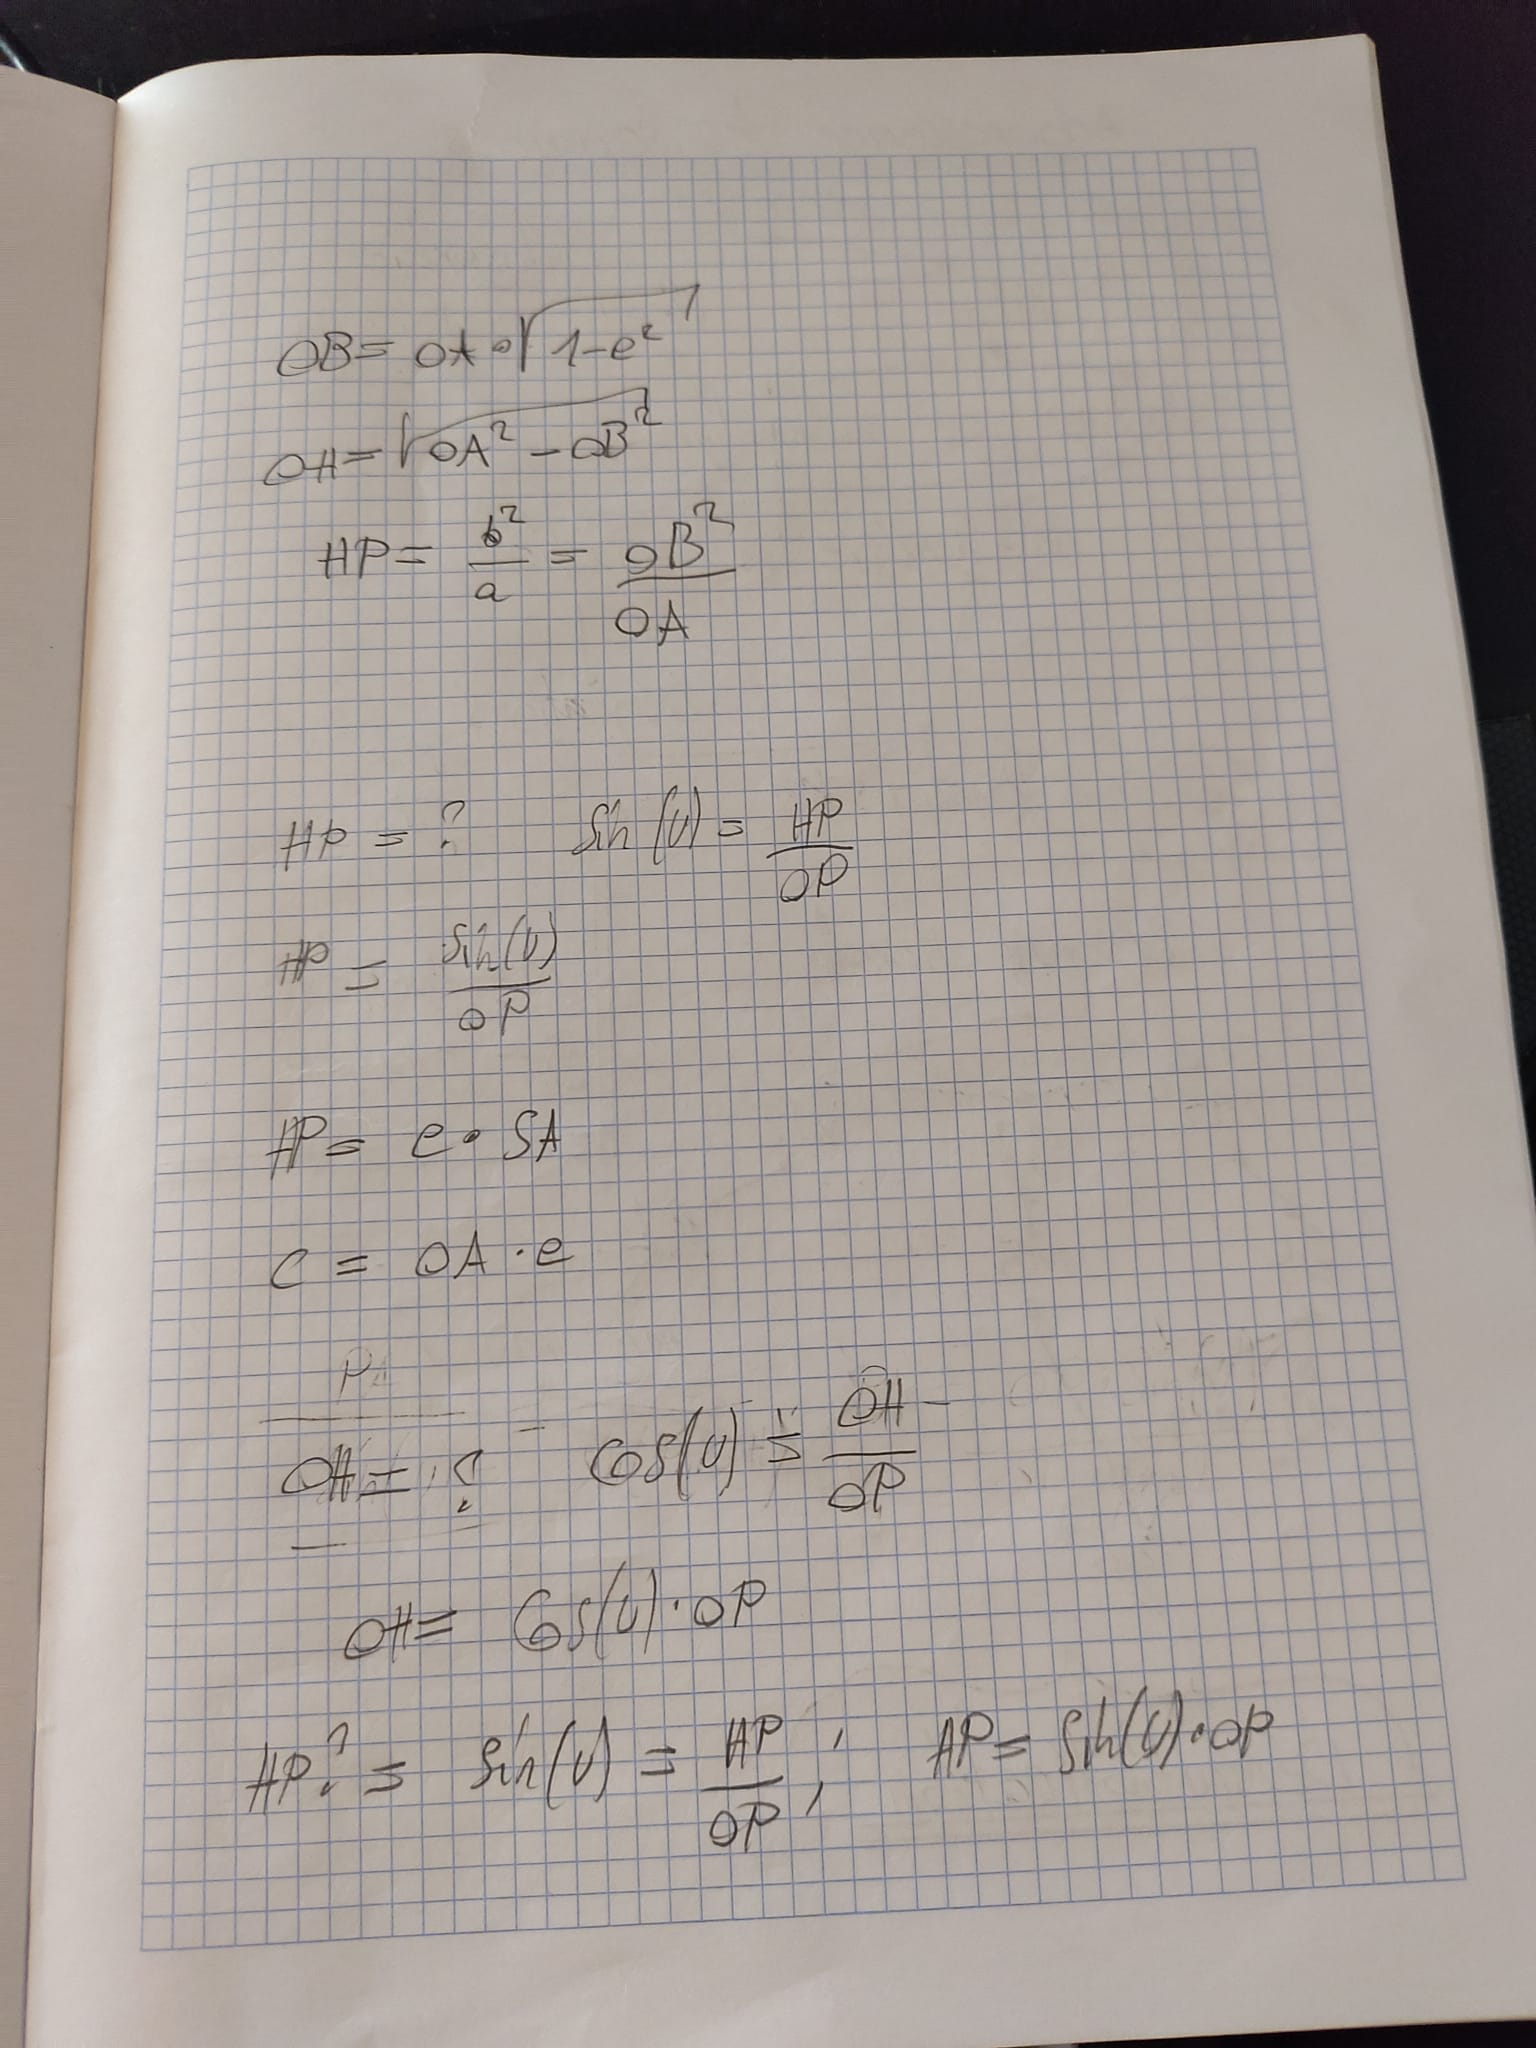
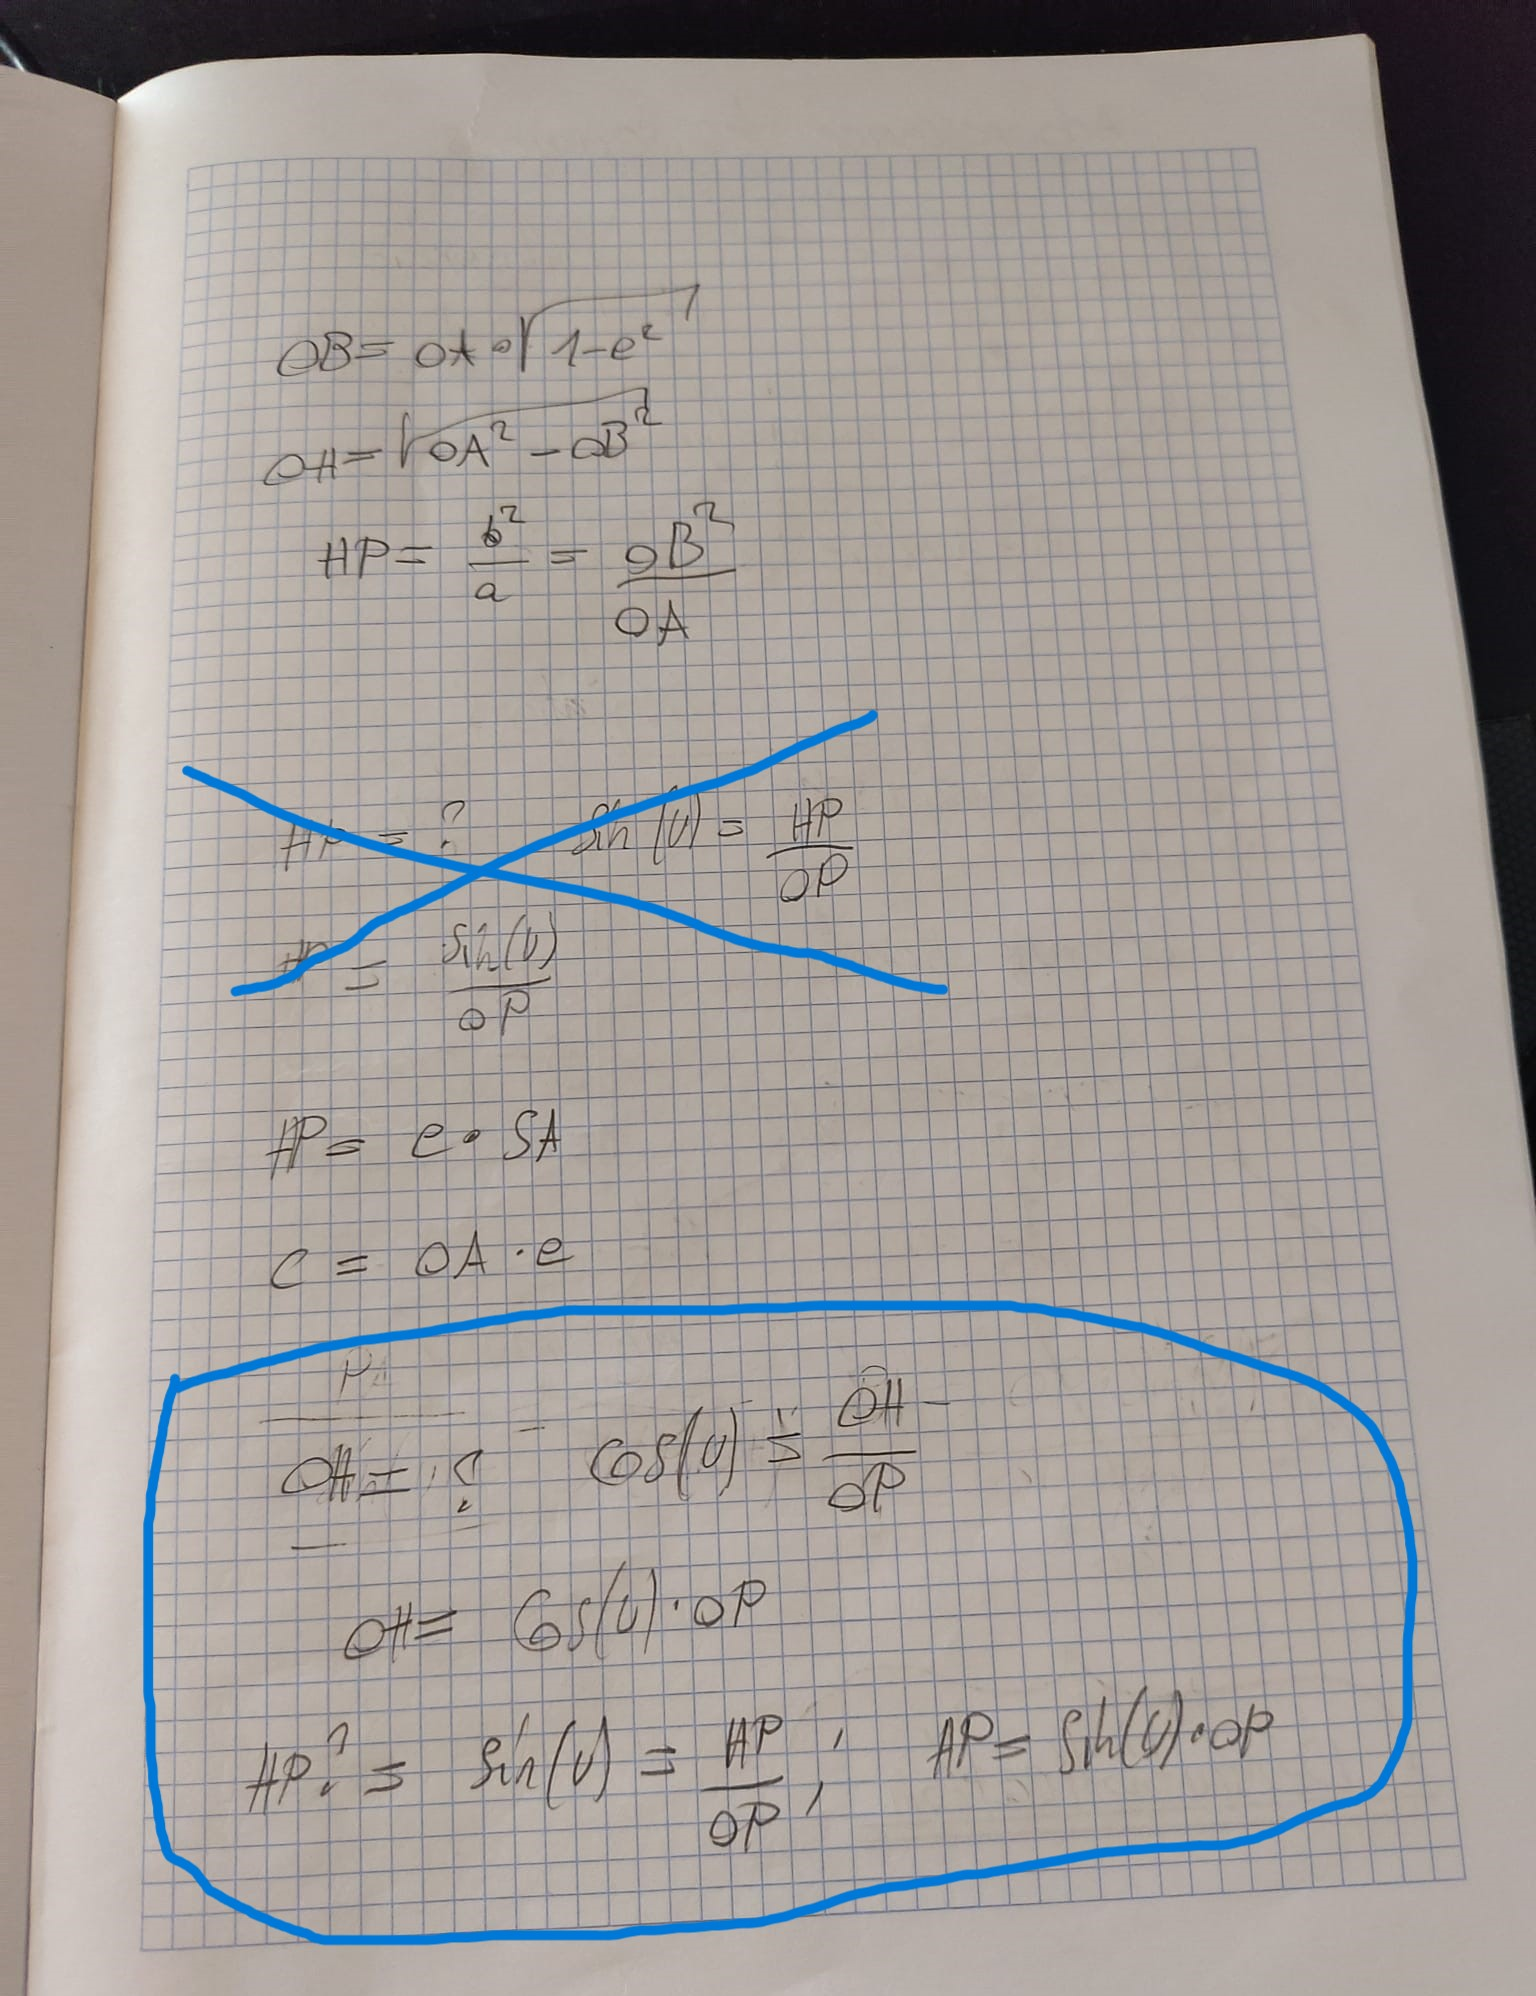
update - distances error - mistakes on sketch

diff --git a/all.js b/all.js
@@ -19,7 +19,7 @@ let ratio_e = 1
 let realTime
 let t_time = false
 let scale_Sat = 3
-let scale_astre = 4 *  1/10**6
+let scale_astre = 4 * 1/10**6
 
 const PIXEL_RANGE_DEFAULT = PIXEL * RATIO_ECRAN 
 
@@ -112,22 +112,24 @@ function satellite(){
         // tableau de bord
         document.getElementById("infobox").innerText = `
         Bienvenue sur mon tableau de bord, voici mon satellite imaginaire.
-    
-        Coordonnées du satellite (taille réelle): (${(x/d_pixel_Range/1000).toFixed(3)}km, ${(y/d_pixel_Range/1000).toFixed(3)*-1}km) 
+
         Coordonnées du satellite (taille écran): (${x.toFixed(3)}px, ${y.toFixed(3)*-1}px)
+        Distance satellite - terre (écran): ${ (Math.sqrt(x**2 + y**2).toFixed(3))} px
         Vitesse radiale: ~${(v_radiale/1000).toFixed(3)} km/s 
 
         Excentricité: ~${e.toFixed(5)}
         Grand axe: ${(SB-RAYON_TERRE)/1000} km
         
-        Echelle de tailles (s'adapte à l'écran): 1m x ${((1/pixel_range)*10**5).toFixed(6)} x10^6 px
-        Echelle de distances: 1m x ${(d_pixel_Range*10**2).toFixed(3)} x10^2 px
         Echelle de temps: 1x${(speedTime).toFixed(2)}
-        Tailles du satellite: ${SAT_HAUTEUR*SAT_LARGEUR}m^2 x ${((1/scale_Sat)*10**6).toFixed(4)} x10^6 px      
-        Masse du satellite: ${SAT_MASSE}kg
         
         Temps: ${new Date(time*1000).getHours()}H ${new Date(time*1000).getMinutes()}m ${new Date(time*1000).getSeconds()}s (heure de Greenwich)        
-        Repo GitHub : nadnone/Satellite_movement_kepler`;
+        Repo GitHub : nadnone/Satellite_movement_kepler
+        
+        
+        (les distances "réelles" n'ont pas l'air fiables)
+        Update: 12.09.2024`;
+
+
     }
     
     setInterval(timeLoop, 60);
